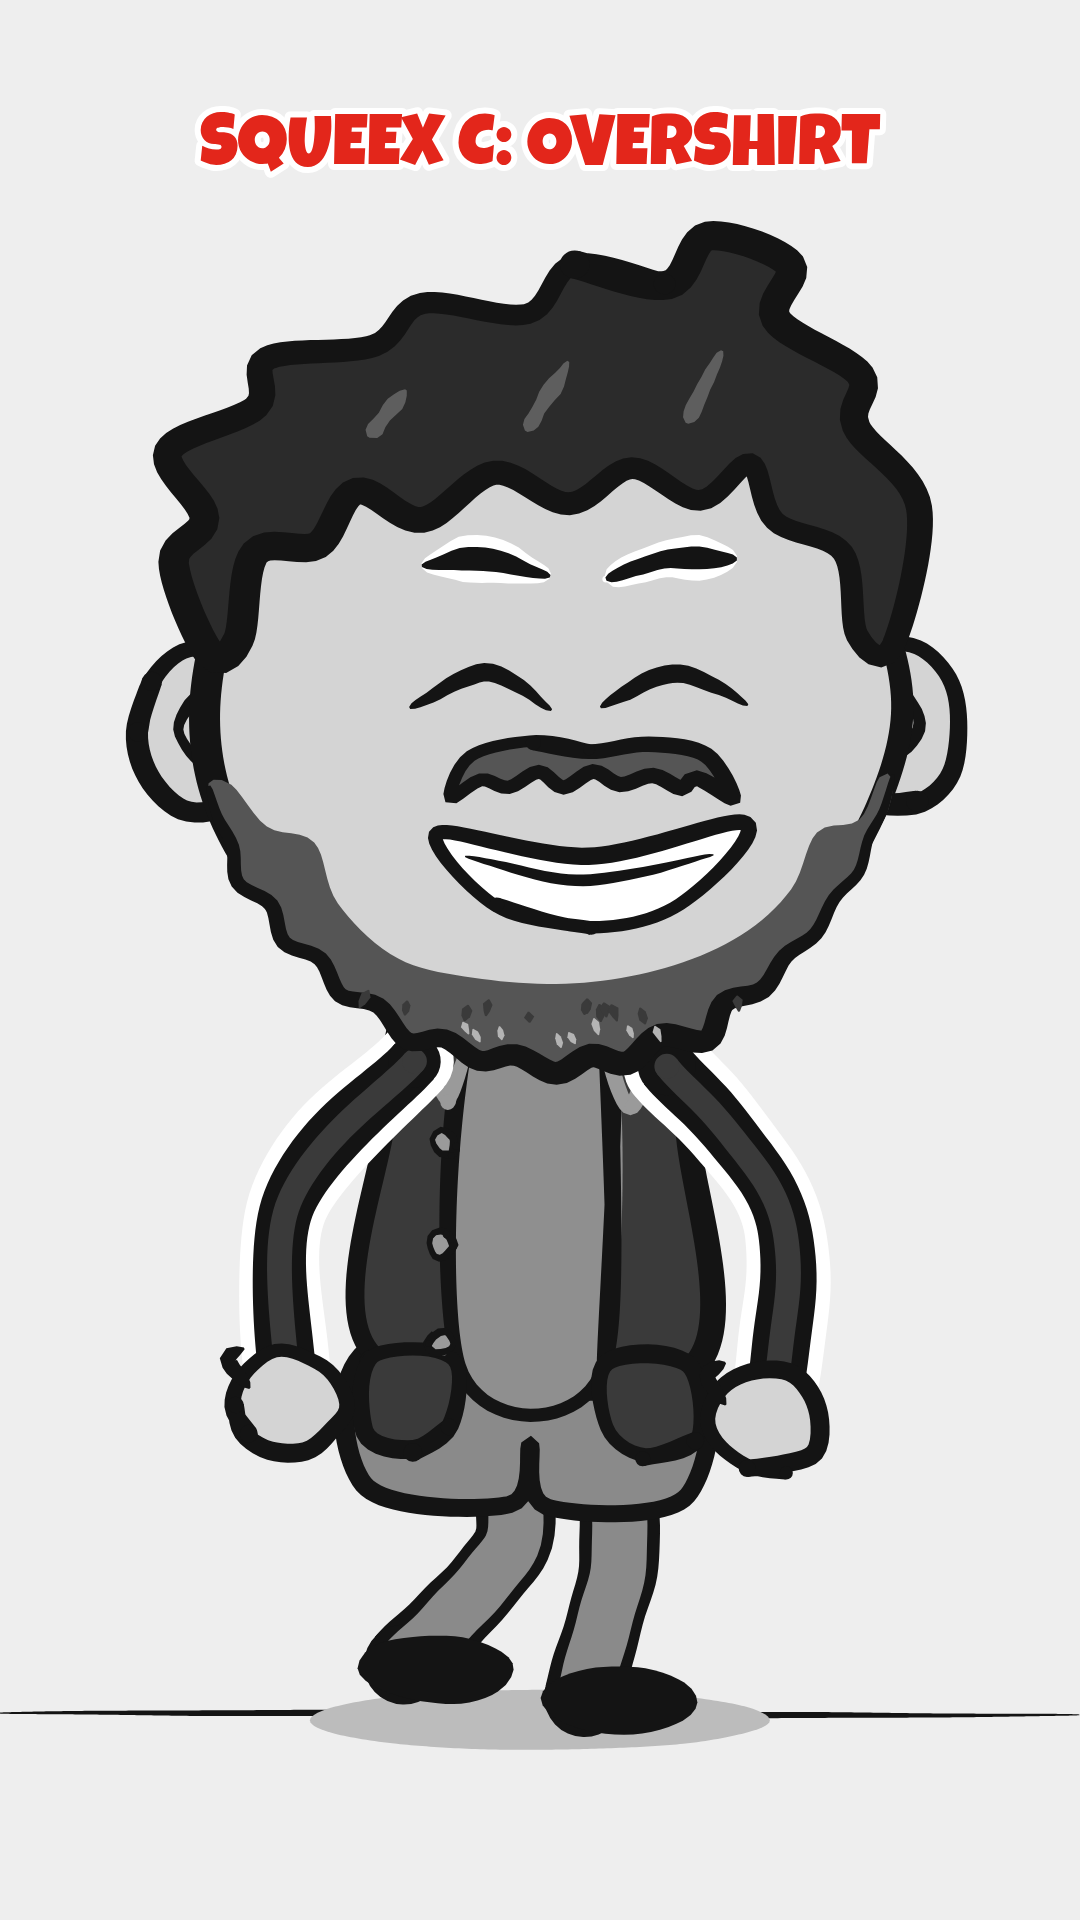
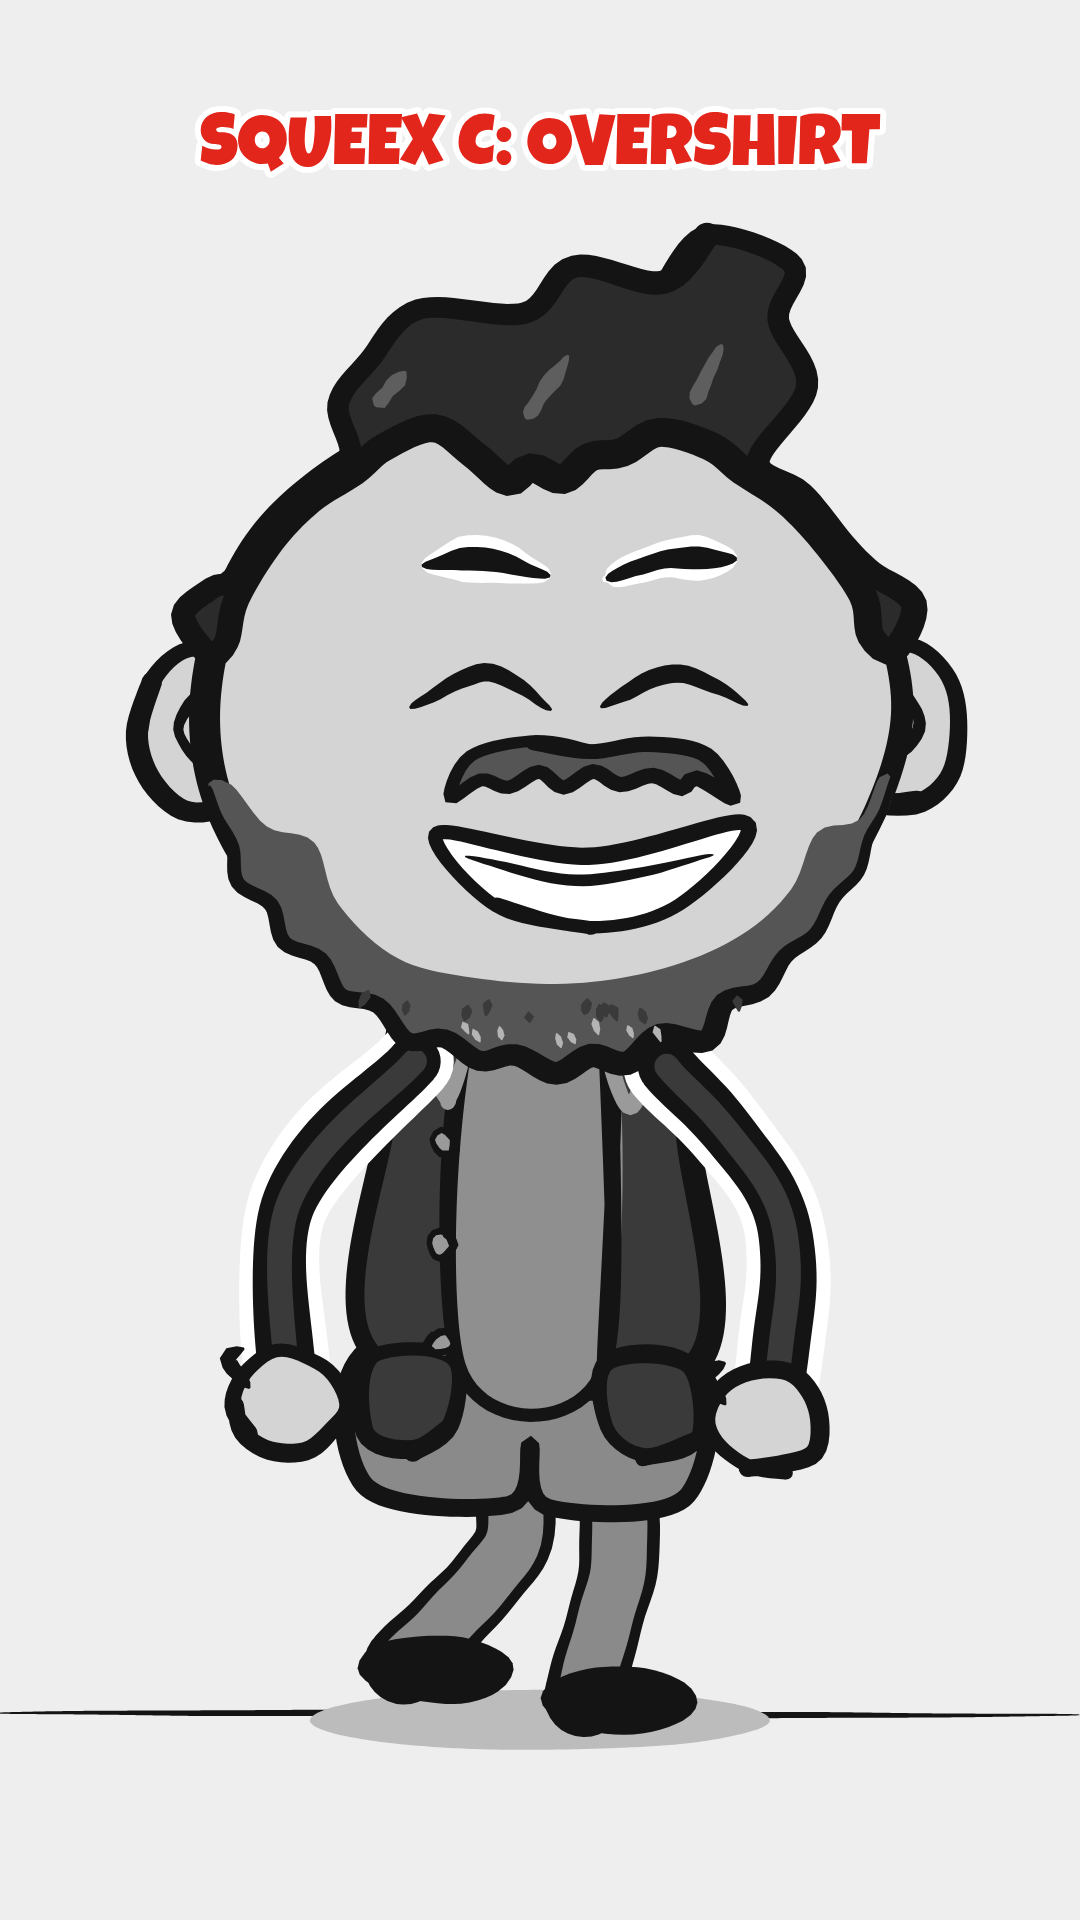
Squeex C: receding hairline, bare temples to the head outline
The hair's outer edge now hugs the head at both temples, so the corners
show bare skin, with the hair mass on the crown and a small forelock.
Only draft C's hair changed.

Claude-Session: https://claude.ai/code/session_01RKmGcx8q1V1rbfKyx6bNrn

Changed region(s): [[0.1222, 0.1562, 0.8861, 0.3438], [0.4889, 0.1875, 0.5194, 0.2188]]

diff --git a/web/cameos.js b/web/cameos.js
@@ -1120,11 +1120,18 @@ const Cameos = (() => {
      [-0.28, -0.62], [-0.44, -0.76], [-0.58, -0.58], [-0.7, -0.68], [-0.84, -0.5], [-0.88, -0.24]],
     [[[-0.5, -0.92], [-0.42, -1.1]], [[-0.08, -0.94], [0.0, -1.14]], [[0.34, -0.94], [0.44, -1.12]]]];
   const SQ_UP = [   // C: pushed up and back in three locks, the front one lifting off
-    [[-0.98, -0.2], [-1.08, -0.5], [-0.98, -0.64], [-1.08, -0.86], [-0.84, -1.0], [-0.8, -1.16], [-0.5, -1.2], [-0.36, -1.34],
-     [-0.06, -1.3], [0.08, -1.46], [0.34, -1.4], [0.46, -1.56], [0.7, -1.46], [0.66, -1.28], [0.9, -1.1], [0.88, -0.92], [1.06, -0.66], [0.98, -0.2]],
-    [[0.88, -0.24], [0.84, -0.52], [0.66, -0.62], [0.58, -0.82], [0.44, -0.7], [0.24, -0.8], [0.06, -0.68], [-0.16, -0.78],
-     [-0.36, -0.64], [-0.54, -0.72], [-0.66, -0.56], [-0.84, -0.52], [-0.88, -0.24]],
-    [[[-0.52, -0.9], [-0.4, -1.06]], [[-0.06, -0.92], [0.06, -1.14]], [[0.4, -0.94], [0.5, -1.18]]]];
+    // receding hairline: the outer edge hugs the head at both temples, so the
+    // bare corners show the head outline there (a clear M), with the top mass
+    // starting above them and short hair over the ears below
+    [[-0.98, -0.2], [-1.05, -0.34], [-0.96, -0.42], [-0.9, -0.46], [-0.8, -0.62], [-0.68, -0.74], [-0.56, -0.84],
+     [-0.6, -1.02], [-0.5, -1.16], [-0.36, -1.32], [-0.06, -1.3], [0.08, -1.46], [0.34, -1.4], [0.46, -1.56], [0.7, -1.46],
+     [0.66, -1.28], [0.74, -1.06], [0.6, -0.82], [0.72, -0.7], [0.84, -0.54], [0.92, -0.44], [1.04, -0.34], [0.98, -0.2]],
+    // inner edge stays just inside the head outline through the bays, then
+    // dips to a small tufted forelock in the middle
+    [[0.93, -0.24], [0.9, -0.38], [0.8, -0.56], [0.68, -0.69], [0.56, -0.78], [0.46, -0.86], [0.32, -0.92], [0.22, -0.84],
+     [0.12, -0.84], [0.04, -0.75], [-0.04, -0.79], [-0.12, -0.75], [-0.22, -0.84], [-0.32, -0.92], [-0.46, -0.86],
+     [-0.56, -0.78], [-0.68, -0.69], [-0.8, -0.56], [-0.9, -0.38], [-0.93, -0.24]],
+    [[[-0.5, -1.0], [-0.4, -1.12]], [[-0.06, -0.96], [0.06, -1.16]], [[0.42, -1.0], [0.5, -1.2]]]];
   const sqHair = h => outlineHair(...h, SQ_HAIR, { lineColor: SQ_LINE });
   const sqEars = ctx => {
     for (const side of [-1, 1]) {
